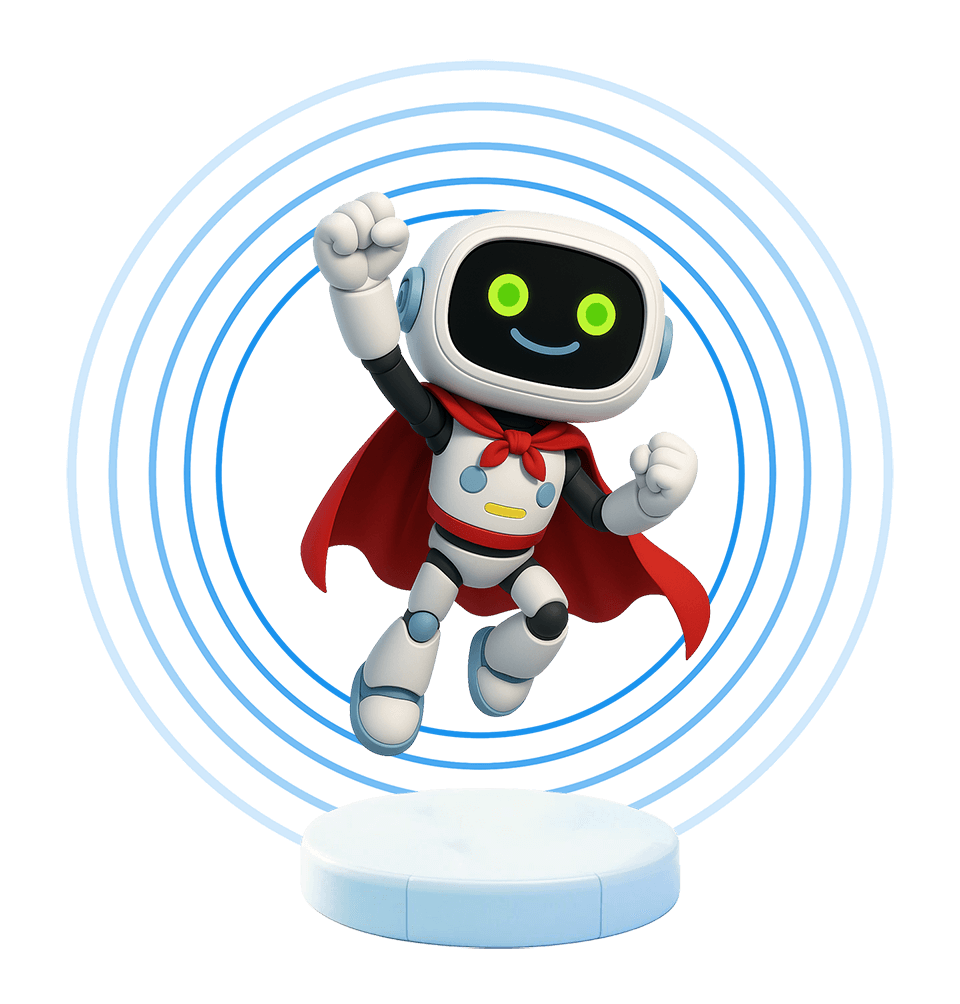
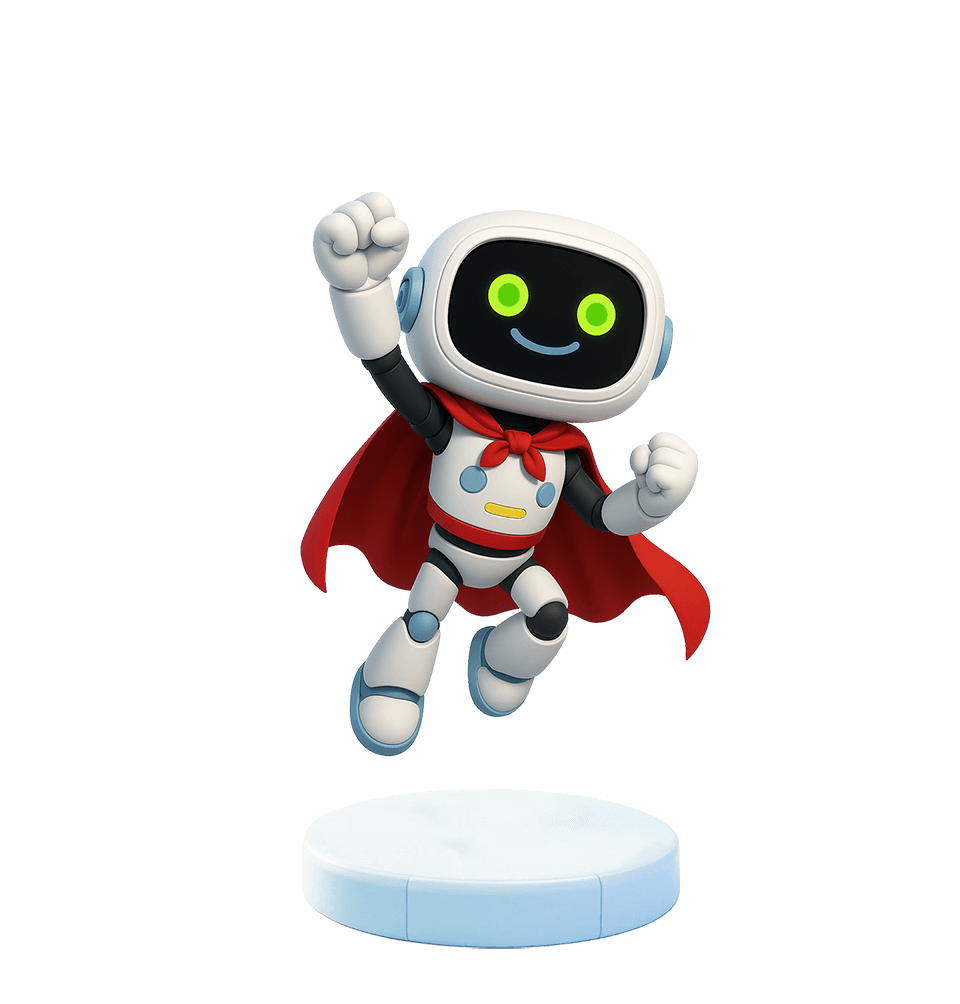
update:增加注册页面左图 (#683)

Changed region(s): [[0.2812, 0.0618, 0.9375, 0.8337], [0.0625, 0.1235, 0.375, 0.8337]]

diff --git a/main/manager-web/src/views/register.vue b/main/manager-web/src/views/register.vue
@@ -9,7 +9,7 @@
         </div>
       </el-header>
       <div class="login-person">
-        <img loading="lazy" alt="" src="@/assets/login/login-person.png" style="width: 100%;" />
+        <img loading="lazy" alt="" src="@/assets/login/register-person.png" style="width: 100%;" />
       </div>
       <el-main style="position: relative;">
         <div class="login-box">
